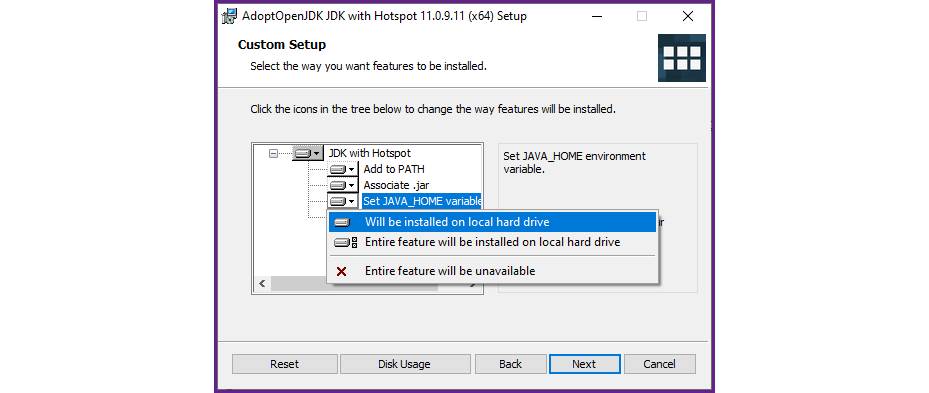
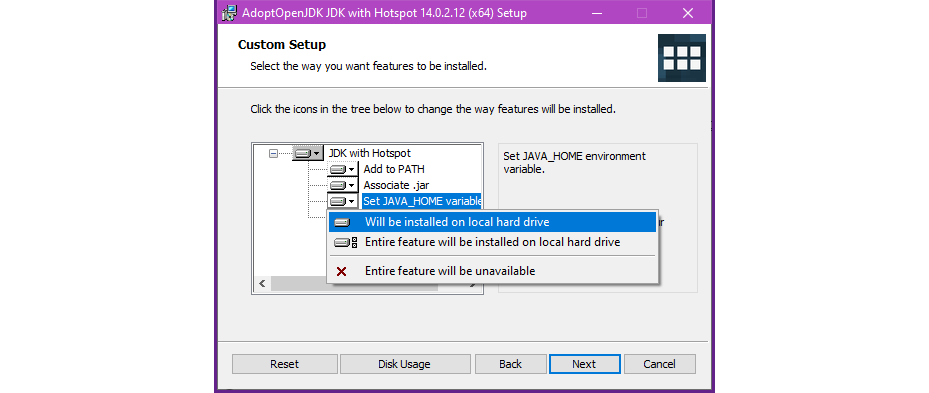
Veribage and image changes to JDK 14

Changed region(s): [[0.2185, 0.0, 0.7804, 0.0611]]

diff --git a/README.md b/README.md
@@ -23,7 +23,7 @@ These documents will assist with the steps needed for updating Java for use with
 - You should only have one version of Java installed at a given time to ensure all programs use the newest version.  This is not a requirement, but a strong suggestion.
 
 **Is it, in fact, Darkosto's birthday?**
-- Chances are slim.
+- Results foggy, ask again later.
 
 ---
 
@@ -38,16 +38,16 @@ These documents will assist with the steps needed for updating Java for use with
 
 ---
 
-# OpenJDK 11+ for Default Launcher or MultiMC
+# OpenJDK 14 for Default Launcher or MultiMC
 
-**Notice**: The following walk-throughs will not work for the Twitch Launcher. These will show you how to install Java 11 JDK. However, the steps are the same for any version available. *Compatibility for Minecraft, modded or vanilla, is not guaranteed.*
+**Notice**: The following walk-throughs will not work for the Twitch Launcher. These will show you how to install Java 14 JDK. However, the steps are the same for any version available. *Compatibility for Minecraft, modded or vanilla, is not guaranteed.*
 
-## [Click here for steps of installing OpenJDK 11](install_adoptopenjdk.md)
+## [Click here for steps of installing OpenJDK 14](install_adoptopenjdk.md)
 
-- ## [Click here for using OpenJDK in MultiMC](multimc_launcher.md)
+- ## [Click here for using OpenJDK 14 in MultiMC](multimc_launcher.md)
 
-- ## [Click here for using OpenJDK in the Default Launcher](default_launcher.md)
+- ## [Click here for using OpenJDK 14 in the Default Launcher](default_launcher.md)
 
 ---
 
-###### *Written by: [Preocts](https://github.com/Preocts) - 2020.10.27*
+###### *Written by: [Preocts](https://github.com/Preocts) - 2021.01.04*

diff --git a/default_launcher.md b/default_launcher.md
@@ -1,6 +1,6 @@
 # Using OpenJDK with the Default Launcher
 
-This was written for JDK 11 (LTS). The choice was made because JDK 11 (LTS) is the newest long-term support version that worked for me.  You are welcome to try any version you want to, the instructions are the same.
+This was written for JDK 14.
 
 ---
 
@@ -11,14 +11,10 @@ This was written for JDK 11 (LTS). The choice was made because JDK 11 (LTS) is t
   - ![default01.png](/images/default01.png)
 
 1. Select "More Options" to display advanced settings
-2. Enter the location of AdoptOpenJDK 11
-   - Default path is `C:\Program Files\AdoptOpenJDK\jdk-11.0.9.11-hotspot\bin\javaw.exe`
+2. Enter the location of AdoptOpenJDK 14
+   - Default path is `C:\Program Files\AdoptOpenJDK\jdk-14.0.2.12-hotspot\bin\javaw.exe`
 3. Adjust Extra Java Arguments to taste
-   - [Darkosto's recommended arguments](https://pastebin.com/hWWUGGHQ)
-     - ```
-       -Xmx8g -Xms8g -XX:+UseG1GC -Dsun.rmi.dgc.server.gcInterval=2147483646 -XX:+UnlockExperimentalVMOptions -XX:G1NewSizePercent=20 -XX:G1ReservePercent=20 -XX:MaxGCPauseMillis=50 -XX:G1HeapRegionSize=32M
-       ```
-   - JDK Versions 14+ use **only** these arguments instead:
+   - JDK Versions 14+ use these arguments:
      - ```
        -Xmx8g -Xms8g -XX:+UnlockExperimentalVMOptions -XX:+UseZGC
        ```
@@ -33,4 +29,4 @@ This was written for JDK 11 (LTS). The choice was made because JDK 11 (LTS) is t
 
 ---
 
-###### *Written by: [Preocts](https://github.com/Preocts) - 2020.10.27*
+###### *Written by: [Preocts](https://github.com/Preocts) - 2021.01.04*

diff --git a/multimc_launcher.md b/multimc_launcher.md
@@ -1,6 +1,6 @@
 # Using OpenJDK with MultiMC
 
-This was written for JDK 11 (LTS). The choice was made because JDK 11 (LTS) is the newest long-term support version that worked for me.  You are welcome to try any version you want to, the instructions are the same.
+This was written for JDK 14.
 
 ---
 
@@ -13,13 +13,9 @@ This was written for JDK 11 (LTS). The choice was made because JDK 11 (LTS) is t
 
 1. Select "Settings" on the left
 2. Check "Java installation" and enter the location of AdoptOpenJDK 11
-   - Default path is `C:\Program Files\AdoptOpenJDK\jdk-11.0.9.11-hotspot\bin\javaw.exe`
+   - Default path is `C:\Program Files\AdoptOpenJDK\jdk-14.0.4.12-hotspot\bin\javaw.exe`
 3. Check "Java arguments" and adjust extra arguments to taste
-   - [Darkosto's recommended arguments](https://pastebin.com/hWWUGGHQ)
-     - ```
-       -XX:+UseG1GC -Dsun.rmi.dgc.server.gcInterval=2147483646 -XX:+UnlockExperimentalVMOptions -XX:G1NewSizePercent=20 -XX:G1ReservePercent=20 -XX:MaxGCPauseMillis=50 -XX:G1HeapRegionSize=32M
-       ```
-   - JDK Versions 14+ use **only** these arguments instead:
+   - JDK Versions 14+ use these custom arguments:
      - ```
        -XX:+UnlockExperimentalVMOptions -XX:+UseZGC
        ```
@@ -35,4 +31,4 @@ This was written for JDK 11 (LTS). The choice was made because JDK 11 (LTS) is t
 
 ---
 
-###### *Written by: [Preocts](https://github.com/Preocts) - 2020.10.27*
+###### *Written by: [Preocts](https://github.com/Preocts) - 2021.01.04*

diff --git a/install_adoptopenjdk.md b/install_adoptopenjdk.md
@@ -4,7 +4,7 @@
   - ![openjdk01.png](/images/openjdk01.png)
   - ![openjdk02.png](/images/openjdk02.png)
 
-1. Select OpenJDK 11 (LTS)
+1. Select OpenJDK 14
 2. Select "HotSpot"
 3. Select your OS
 4. Select your Architecture (x86 = 32 bit, **x64 = 64bit**)
@@ -18,10 +18,10 @@
 
 ---
 
-### That's it. You now have a fresh install of OpenJDK 11. Smile.
+### That's it. You now have a fresh install of OpenJDK 14. Smile.
 
 ### [Back to the main document](README.md)
 
 ---
 
-###### *Written by: [Preocts](https://github.com/Preocts) - 2020.10.27*
+###### *Written by: [Preocts](https://github.com/Preocts) - 2021.01.04*
